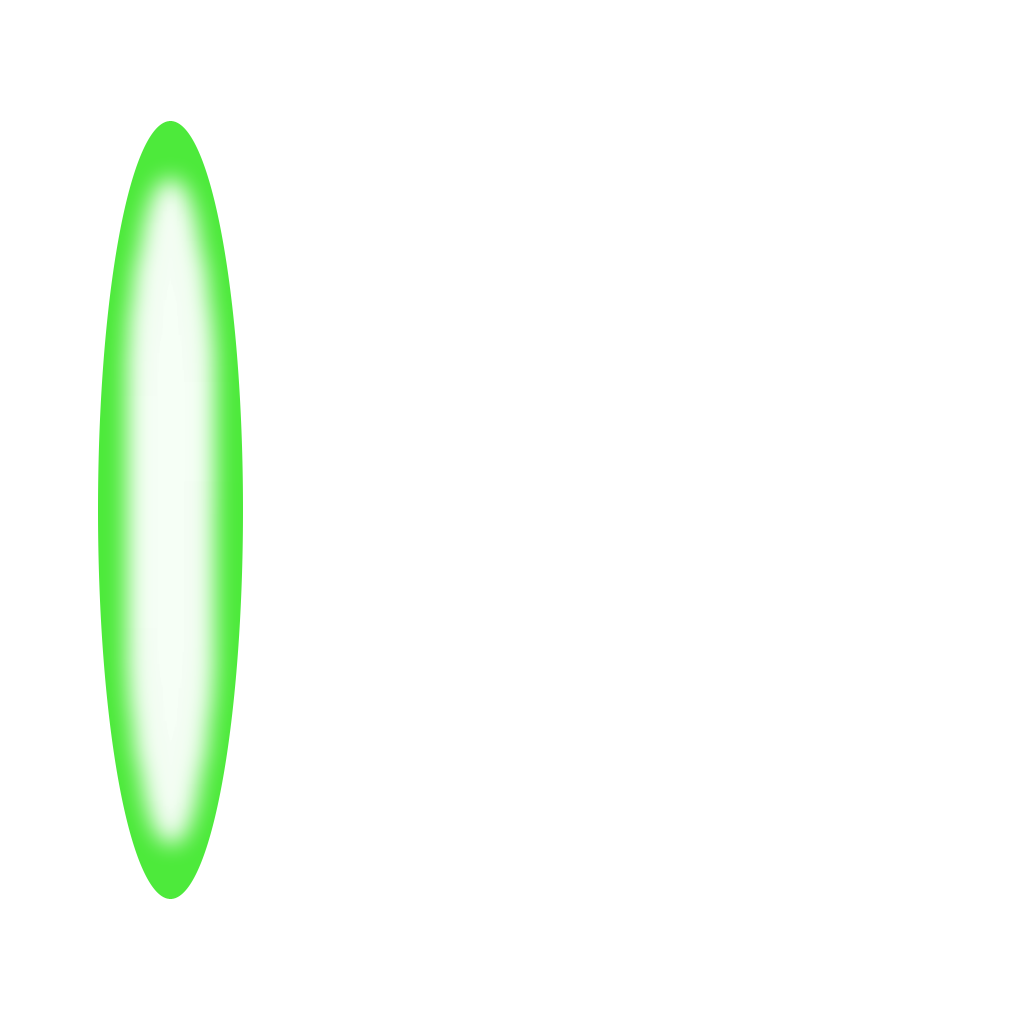
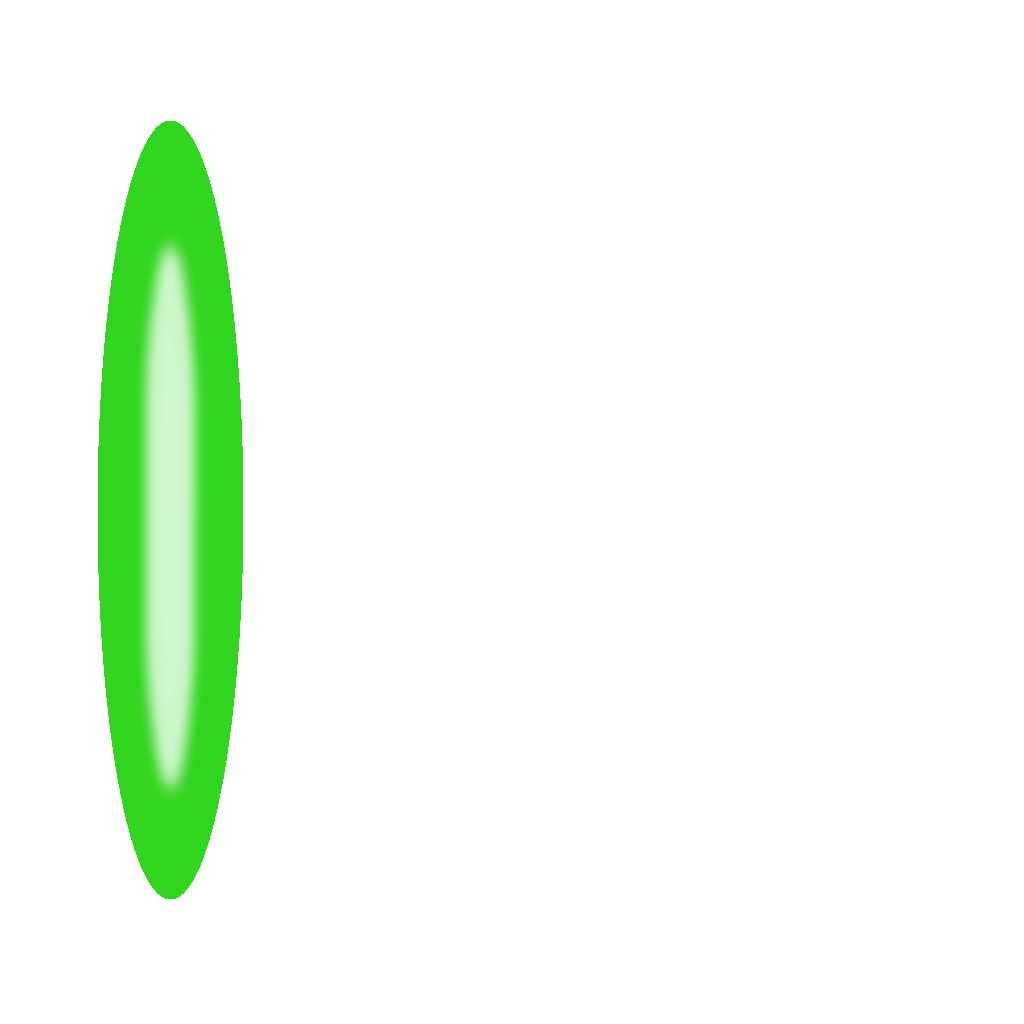
パーティクルのパラメータを調整しました。

Changed region(s): [[0.0938, 0.0938, 0.25, 0.875]]

diff --git a/project/Game/GameScene/Enemy/ReviveParticle/ReviveParticleMvements.cpp b/project/Game/GameScene/Enemy/ReviveParticle/ReviveParticleMvements.cpp
@@ -25,7 +25,7 @@ void ReviveParticleMvements::move(Particle* const particle) {
 	velocity += accel * WorldClock::DeltaSeconds();
 	particle->get_transform().plus_translate(velocity * WorldClock::DeltaSeconds());
 	particle->get_transform().set_scale(
-		Vector3::Lerp(CVector3::BASIS * 2, Vector3{0,2,2}, Easing::In::Expo(parametric))
+		Vector3::Lerp(CVector3::BASIS * 2, Vector3{0,2,2}, Easing::In::Cubic(parametric))
 	);
 
 	if (timer >= lifeTime) {

diff --git a/project/Game/GameScene/Enemy/ReviveParticle/ReviveEmitter.cpp b/project/Game/GameScene/Enemy/ReviveParticle/ReviveEmitter.cpp
@@ -31,7 +31,7 @@ void ReviveEmitter::on_emit(Particle* const particle) {
 	float theta = RandomEngine::RandomPIClosed();
 	Vector3 offset = {
 		distance * std::cos(theta),
-		RandomEngine::Random01Closed() + 0.5f ,
+		RandomEngine::Random01Closed() * 0.2f + 0.2f ,
 		distance * std::sin(theta)
 	};
 	particle->get_transform().set_translate(this->world_position() + offset);
